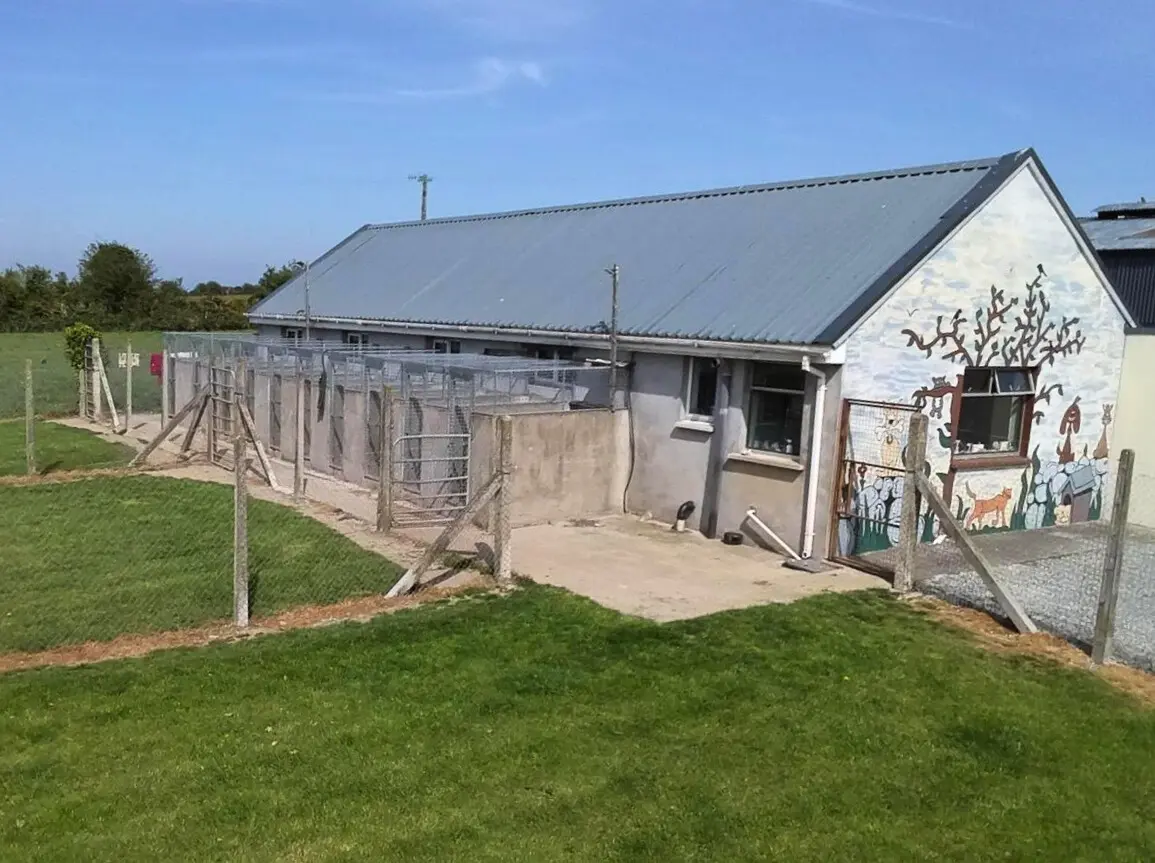
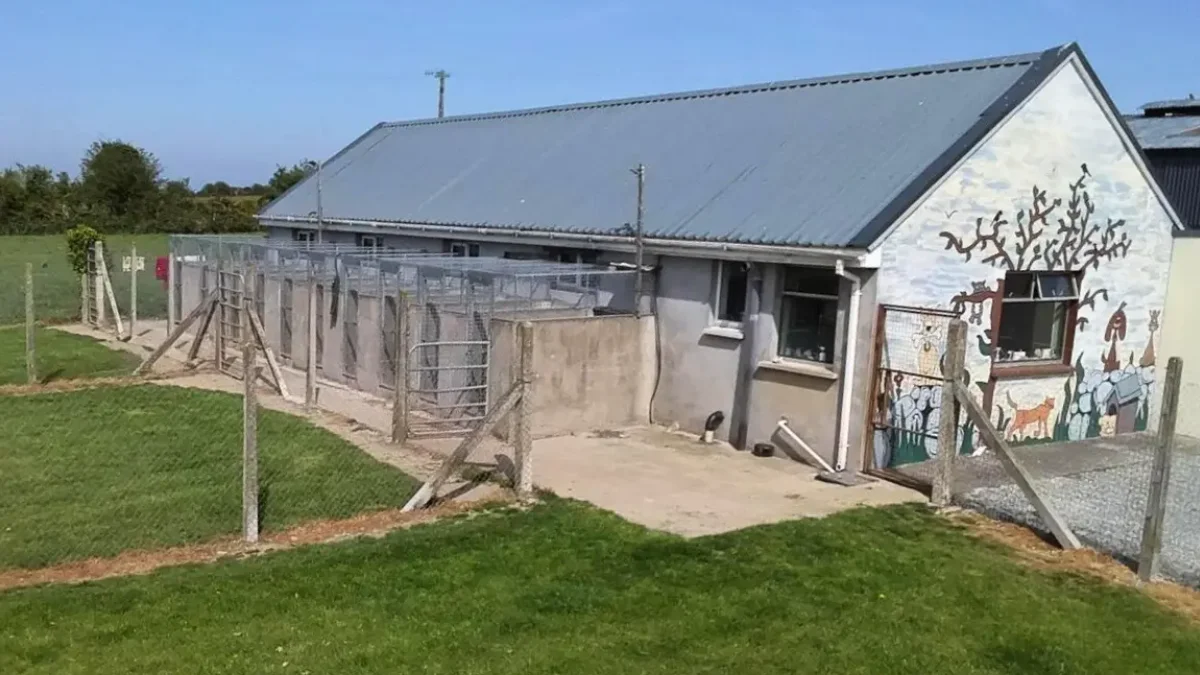
optimised images

diff --git a/src/components/Services.js b/src/components/Services.js
@@ -1,6 +1,8 @@
 import { motion } from 'framer-motion';
 import ServiceCard from './ServiceCard';
 
+const baseUrl = process.env.PUBLIC_URL || '';
+
 const services = [
   {
     title: "Dog Boarding",
@@ -22,13 +24,14 @@ const services = [
       "Customized feeding schedule",
       "Playtime with other dogs (optional)",
     ],
-    mainImage: process.env.PUBLIC_URL + "/images/services/Dog_1.webp",
+    mainImage: baseUrl + "/images/services/Dog_1.webp",
+    mainImageMobile: baseUrl + "/images/services/Dog_1-mobile.webp",
     images: [
-      { src: process.env.PUBLIC_URL + "/images/services/Dog_1.webp", alt: "Dog enjoying boarding facility 1" },
-      { src: process.env.PUBLIC_URL + "/images/services/Dog_2.webp", alt: "Dog enjoying boarding facility 2" },
-      { src: process.env.PUBLIC_URL + "/images/services/Dog_3.webp", alt: "Dog enjoying boarding facility 3" },
-      { src: process.env.PUBLIC_URL + "/images/services/Dog_4.webp", alt: "Dog enjoying boarding facility 4" },
-      { src: process.env.PUBLIC_URL + "/images/services/Dog_5.webp", alt: "Dog enjoying boarding facility 5" }
+      { desktop: baseUrl + "/images/services/Dog_1.webp", mobile: baseUrl + "/images/services/Dog_1-mobile.webp", alt: "Dog enjoying boarding facility 1" },
+      { desktop: baseUrl + "/images/services/Dog_2.webp", mobile: baseUrl + "/images/services/Dog_2-mobile.webp", alt: "Dog enjoying boarding facility 2" },
+      { desktop: baseUrl + "/images/services/Dog_3.webp", mobile: baseUrl + "/images/services/Dog_3-mobile.webp", alt: "Dog enjoying boarding facility 3" },
+      { desktop: baseUrl + "/images/services/Dog_4.webp", mobile: baseUrl + "/images/services/Dog_4-mobile.webp", alt: "Dog enjoying boarding facility 4" },
+      { desktop: baseUrl + "/images/services/Dog_5.webp", mobile: baseUrl + "/images/services/Dog_5-mobile.webp", alt: "Dog enjoying boarding facility 5" }
     ]
   },
   {
@@ -52,13 +55,14 @@ const services = [
       "Quiet, peaceful environment",
       "Scratch posts and toys"
     ],
-    mainImage: process.env.PUBLIC_URL + "/images/services/Cat_1.webp",
+    mainImage: baseUrl + "/images/services/Cat_1.webp",
+    mainImageMobile: baseUrl + "/images/services/Cat_1-mobile.webp",
     images: [
-      { src: process.env.PUBLIC_URL + "/images/services/Cat_1.webp", alt: "Cat enjoying boarding facility 1" },
-      { src: process.env.PUBLIC_URL + "/images/services/Cat_2.webp", alt: "Cat enjoying boarding facility 2" },
-      { src: process.env.PUBLIC_URL + "/images/services/Cat_3.webp", alt: "Cat enjoying boarding facility 3" },
-      { src: process.env.PUBLIC_URL + "/images/services/Cat_4.webp", alt: "Cat enjoying boarding facility 4" },
-      { src: process.env.PUBLIC_URL + "/images/services/Cat_5.webp", alt: "Cat enjoying boarding facility 5" }
+      { desktop: baseUrl + "/images/services/Cat_1.webp", mobile: baseUrl + "/images/services/Cat_1-mobile.webp", alt: "Cat enjoying boarding facility 1" },
+      { desktop: baseUrl + "/images/services/Cat_2.webp", mobile: baseUrl + "/images/services/Cat_2-mobile.webp", alt: "Cat enjoying boarding facility 2" },
+      { desktop: baseUrl + "/images/services/Cat_3.webp", mobile: baseUrl + "/images/services/Cat_3-mobile.webp", alt: "Cat enjoying boarding facility 3" },
+      { desktop: baseUrl + "/images/services/Cat_4.webp", mobile: baseUrl + "/images/services/Cat_4-mobile.webp", alt: "Cat enjoying boarding facility 4" },
+      { desktop: baseUrl + "/images/services/Cat_5.webp", mobile: baseUrl + "/images/services/Cat_5-mobile.webp", alt: "Cat enjoying boarding facility 5" }
     ]
   }
 ];

diff --git a/src/components/About.js b/src/components/About.js
@@ -2,22 +2,28 @@ import { useState } from 'react';
 import { motion, AnimatePresence } from 'framer-motion';
 import { FaChevronLeft, FaChevronRight } from 'react-icons/fa';
 
+const baseUrl = process.env.PUBLIC_URL || '';
+
 const images = [
   {
-    src: process.env.PUBLIC_URL + "/images/hero/entrance-mural.webp",
+    desktop: baseUrl + "/images/hero/entrance-mural.webp",
+    mobile: baseUrl + "/images/hero/entrance-mural-mobile.webp",
     alt: "Corlican Pet Motel entrance with charming mural featuring pets and trees",
     caption: "Welcome to Corlican Pet Motel"
   },
   {
-    src: process.env.PUBLIC_URL + "/images/about/about-1.webp",
+    desktop: baseUrl + "/images/about/about-1.webp",
+    mobile: baseUrl + "/images/about/about-1-mobile.webp",
     alt: "Corlican Pet Motel exterior"
   },
   {
-    src: process.env.PUBLIC_URL + "/images/about/about-2.webp",
+    desktop: baseUrl + "/images/about/about-2.webp",
+    mobile: baseUrl + "/images/about/about-2-mobile.webp",
     alt: "Pet play area"
   },
   {
-    src: process.env.PUBLIC_URL + "/images/about/about-3.webp",
+    desktop: baseUrl + "/images/about/about-3.webp",
+    mobile: baseUrl + "/images/about/about-3-mobile.webp",
     alt: "Staff with pets"
   }
 ];
@@ -84,9 +90,15 @@ export default function About() {
                 className="absolute inset-0"
               >
                 <img
-                  src={images[currentImageIndex].src}
+                  src={images[currentImageIndex].desktop}
+                  srcSet={`${images[currentImageIndex].mobile} 800w, ${images[currentImageIndex].desktop} 1200w`}
+                  sizes="(max-width: 1024px) 100vw, 50vw"
                   alt={images[currentImageIndex].alt}
                   className="object-cover object-center w-full h-full"
+                  loading="lazy"
+                  decoding="async"
+                  width="1200"
+                  height="675"
                 />
               </motion.div>
             </AnimatePresence>

diff --git a/src/components/Hero.js b/src/components/Hero.js
@@ -1,19 +1,24 @@
 import { useState, useEffect } from 'react';
 import { motion, AnimatePresence } from 'framer-motion';
 
+const baseUrl = process.env.PUBLIC_URL || '';
+
 const images = [
   {
-    src: process.env.PUBLIC_URL + "/images/hero/entrance-mural.webp",
+    desktop: baseUrl + "/images/hero/entrance-mural.webp",
+    mobile: baseUrl + "/images/hero/entrance-mural-mobile.webp",
     alt: 'Corlican Pet Motel entrance mural with pets and trees',
     caption: 'Welcome to Corlican Pet Motel'
   },
   {
-    src: process.env.PUBLIC_URL + "/images/hero/kennels-view.webp",
+    desktop: baseUrl + "/images/hero/kennels-view.webp",
+    mobile: baseUrl + "/images/hero/kennels-view-mobile.webp",
     alt: 'View of spacious outdoor kennels and grassy area',
     caption: 'Spacious Outdoor Facilities'
   },
   {
-    src: process.env.PUBLIC_URL + "/images/hero/signage.webp",
+    desktop: baseUrl + "/images/hero/signage.webp",
+    mobile: baseUrl + "/images/hero/signage-mobile.webp",
     alt: 'Corlican Pet Motel Boarding Kennels signage',
     caption: 'Professional Pet Boarding Services'
   }
@@ -46,9 +51,15 @@ export default function Hero() {
             className="absolute inset-0"
           >
             <img
-              src={images[currentImageIndex].src}
+              src={images[currentImageIndex].desktop}
+              srcSet={`${images[currentImageIndex].mobile} 800w, ${images[currentImageIndex].desktop} 1200w`}
+              sizes="100vw"
               alt={images[currentImageIndex].alt}
               className="object-cover object-center w-full h-full"
+              loading={currentImageIndex === 0 ? "eager" : "lazy"}
+              decoding="async"
+              width="1200"
+              height="675"
             />
             <div className="absolute inset-0 bg-black/30" />
           </motion.div>

diff --git a/src/components/ServiceCard.js b/src/components/ServiceCard.js
@@ -10,6 +10,7 @@ export default function ServiceCard({
   features,
   images,
   mainImage,
+  mainImageMobile,
   prices,
 }) {
   const [isExpanded, setIsExpanded] = useState(false);
@@ -41,8 +42,14 @@ export default function ServiceCard({
         <div className="relative h-80">
           <img
             src={mainImage}
+            srcSet={`${mainImageMobile || mainImage} 800w, ${mainImage} 1200w`}
+            sizes="(max-width: 768px) 100vw, (max-width: 1024px) 50vw, 600px"
             alt={title}
             className="object-cover object-center w-full h-full"
+            loading="lazy"
+            decoding="async"
+            width="1200"
+            height="675"
           />
         </div>
         <div className="p-6">
@@ -107,9 +114,15 @@ export default function ServiceCard({
                     className="absolute inset-0"
                   >
                     <img
-                      src={images[currentImageIndex].src}
+                      src={images[currentImageIndex].desktop || images[currentImageIndex].src}
+                      srcSet={`${images[currentImageIndex].mobile || images[currentImageIndex].desktop || images[currentImageIndex].src} 800w, ${images[currentImageIndex].desktop || images[currentImageIndex].src} 1200w`}
+                      sizes="(max-width: 768px) 100vw, 1200px"
                       alt={images[currentImageIndex].alt}
                       className="object-cover object-center w-full h-full"
+                      loading="lazy"
+                      decoding="async"
+                      width="1200"
+                      height="675"
                     />
                   </motion.div>
                 </AnimatePresence>

diff --git a/src/utils/imageUtils.js b/src/utils/imageUtils.js
@@ -1,0 +1,57 @@
+/**
+ * Generate responsive image srcset for desktop and mobile versions
+ * Desktop images: 1200x675px
+ * Mobile images: 800x450px (same filename with -mobile suffix)
+ * @param {string} imagePath - Base path to the desktop image
+ * @returns {Object} Object with src, srcSet, and sizes for responsive images
+ */
+export const getResponsiveImageSrcSet = (imagePath) => {
+  const baseUrl = process.env.PUBLIC_URL || '';
+  
+  // Extract path parts
+  const fullDesktopPath = imagePath.startsWith(baseUrl) 
+    ? imagePath 
+    : `${baseUrl}${imagePath}`;
+  
+  // Create mobile path by inserting -mobile before .webp extension
+  const mobilePath = fullDesktopPath.replace(/\.webp$/, '-mobile.webp');
+  
+  return {
+    src: fullDesktopPath, // Fallback for older browsers
+    srcSet: `${mobilePath} 800w, ${fullDesktopPath} 1200w`,
+    sizes: '(max-width: 768px) 800px, 1200px'
+  };
+};
+
+/**
+ * Get responsive image props for img element
+ * @param {string} imagePath - Base path to the desktop image
+ * @param {Object} options - Options for responsive image
+ * @returns {Object} Props object for img element
+ */
+export const getResponsiveImageProps = (imagePath, options = {}) => {
+  const { 
+    sizes = '(max-width: 768px) 800px, 1200px',
+    loading = 'lazy',
+    decoding = 'async',
+    width = 1200,
+    height = 675,
+    alt = '',
+    className = ''
+  } = options;
+  
+  const srcSetData = getResponsiveImageSrcSet(imagePath);
+  
+  return {
+    src: srcSetData.src,
+    srcSet: srcSetData.srcSet,
+    sizes: sizes,
+    loading: loading,
+    decoding: decoding,
+    width: width,
+    height: height,
+    alt: alt,
+    className: className
+  };
+};
+

diff --git a/README.md b/README.md
@@ -1,10 +1,8 @@
 # Corlican Pet Motel
 
-Premium Pet Boarding Website
+Pet Boarding
 
----
-
-Welcome to the Corlican Pet Motel website! This is a modern, responsive web application for a purpose-built pet boarding facility, providing information about our services, features, and contact details for pet owners.
+Welcome to the Corlican Pet Motel website! This is a modern, responsive website for a purpose-built pet boarding kennels, providing information about our services, features, and contact details for pet owners.
 
 ## Features
 
@@ -20,11 +18,8 @@ Welcome to the Corlican Pet Motel website! This is a modern, responsive web appl
 
 - [React](https://reactjs.org/)
 - [Tailwind CSS](https://tailwindcss.com/)
-- [Framer Motion](https://www.framer.com/motion/)
 - [EmailJS](https://www.emailjs.com/) (for contact form)
 - [GitHub Pages](https://pages.github.com/) (for deployment)
-
-
 
 © Corlican Pet Motel. All rights reserved.
 
